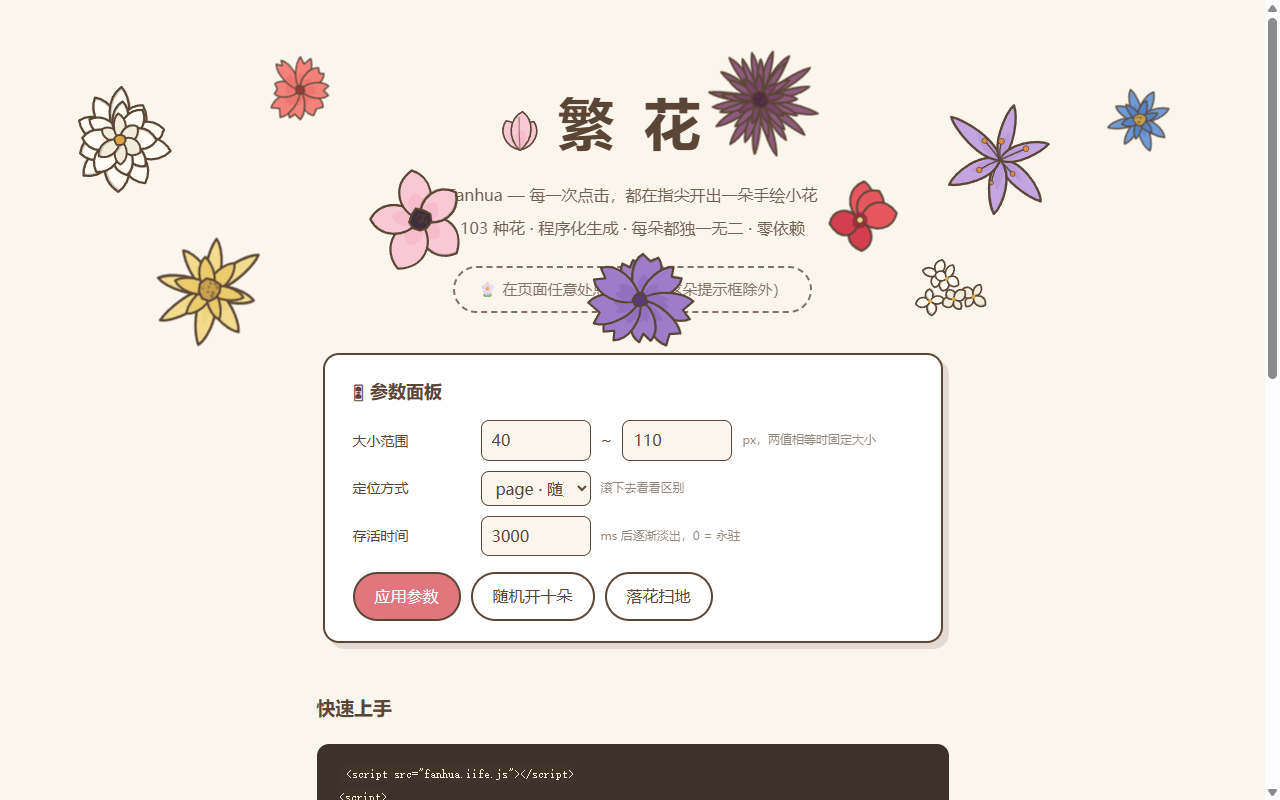
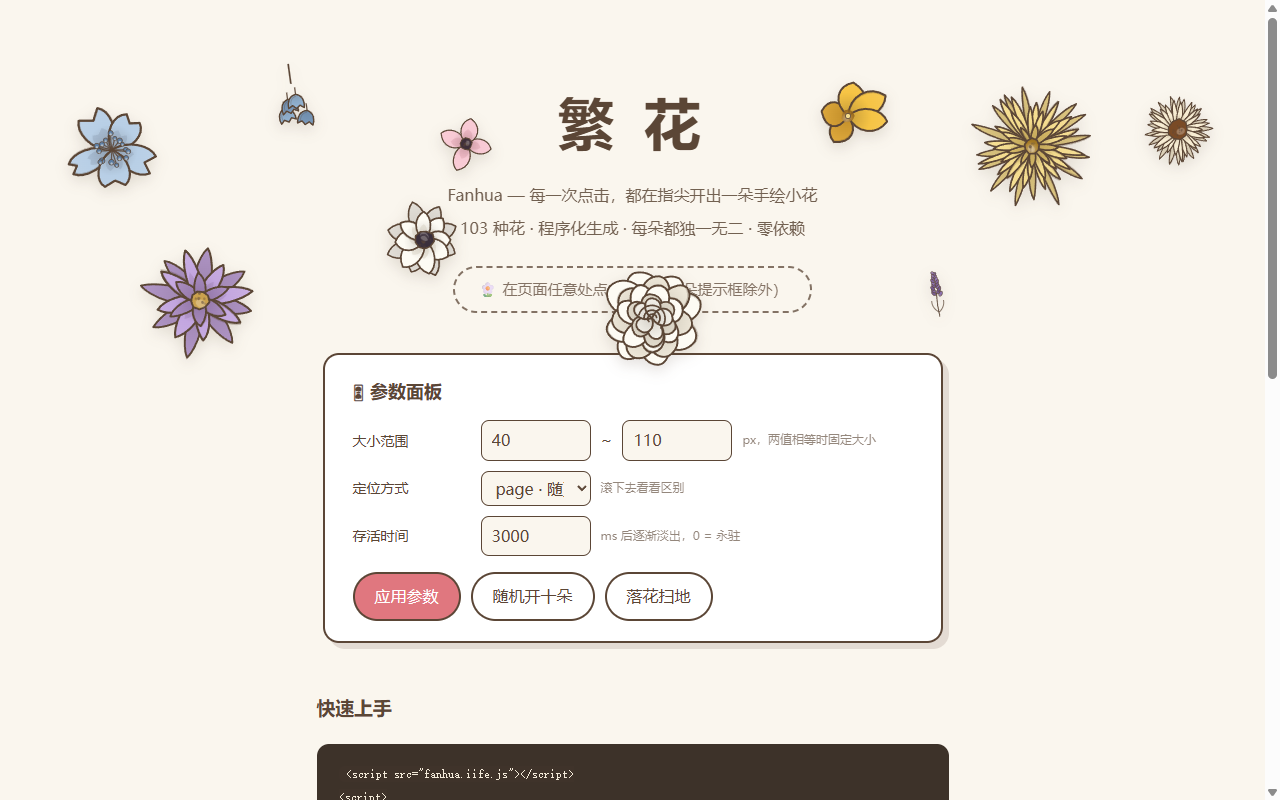
docs: refresh demo screenshot and copy for the new shading
Regenerate demo/demo.png with the illustrated flowers, and mention the
per-flower gradients in the README feature list and the demo page.

diff --git a/demo/index.html b/demo/index.html
@@ -158,6 +158,7 @@
 
   <h3>为什么是手绘感？</h3>
   <p>每一朵花都不是贴图，而是用代码当场"画"出来的 SVG：花瓣的轮廓由带抖动的贝塞尔曲线勾勒，每个花瓣的长短、开角、朝向都略有随机，很多花瓣还会被铅笔淡淡地再勾一道线。所以即使点到同一个位置两次，开出来的两朵花也不会一模一样。</p>
+  <p>上色也不是一块平涂——每朵花都自带一组渐变，花瓣从瓣根到瓣尖由深转浅，后面再垫一层错位的花瓣，花心留一点暖光，于是平面的图形也有了厚度，像贴在纸上的插画。</p>
   <p>花型来自 18 种原型的组合——雏菊、玫瑰、郁金香、樱花、向日葵、莲花、菊花、三色堇、绣球、风铃草……再乘上 16 组手绘蜡笔感的配色，共 103 个命名花种，点击时随机抽选。</p>
   <h3>滚到这里啦</h3>
   <p>如果你把定位方式切成 <code>page</code>，在这里点下的花会跟着页面一起滚动，像真的开在纸面上；如果切成 <code>screen</code>，花会钉在屏幕的那一点，页面怎么动它都不挪窝。试试就知道。</p>

diff --git a/README.md b/README.md
@@ -8,7 +8,7 @@
 
 ## 特性
 
-- 🎨 **手绘感**：花瓣由带抖动的贝塞尔曲线勾勒，很多花瓣会被"铅笔"再淡淡勾一道
+- 🎨 **手绘 + 插画质感**：花瓣由带抖动的贝塞尔曲线勾边，再叠上"从花心到瓣尖"的渐变、一层后瓣与花心高光，平面图形也有厚度
 - 🌼 **103 种花**：雏菊、玫瑰、樱花、向日葵、郁金香、绣球、风铃草……点击时随机抽选
 - 📐 **大小可定制**：支持区间随机或固定大小
 - 📌 **两种定位**：跟随页面滚动，或固定在屏幕上
